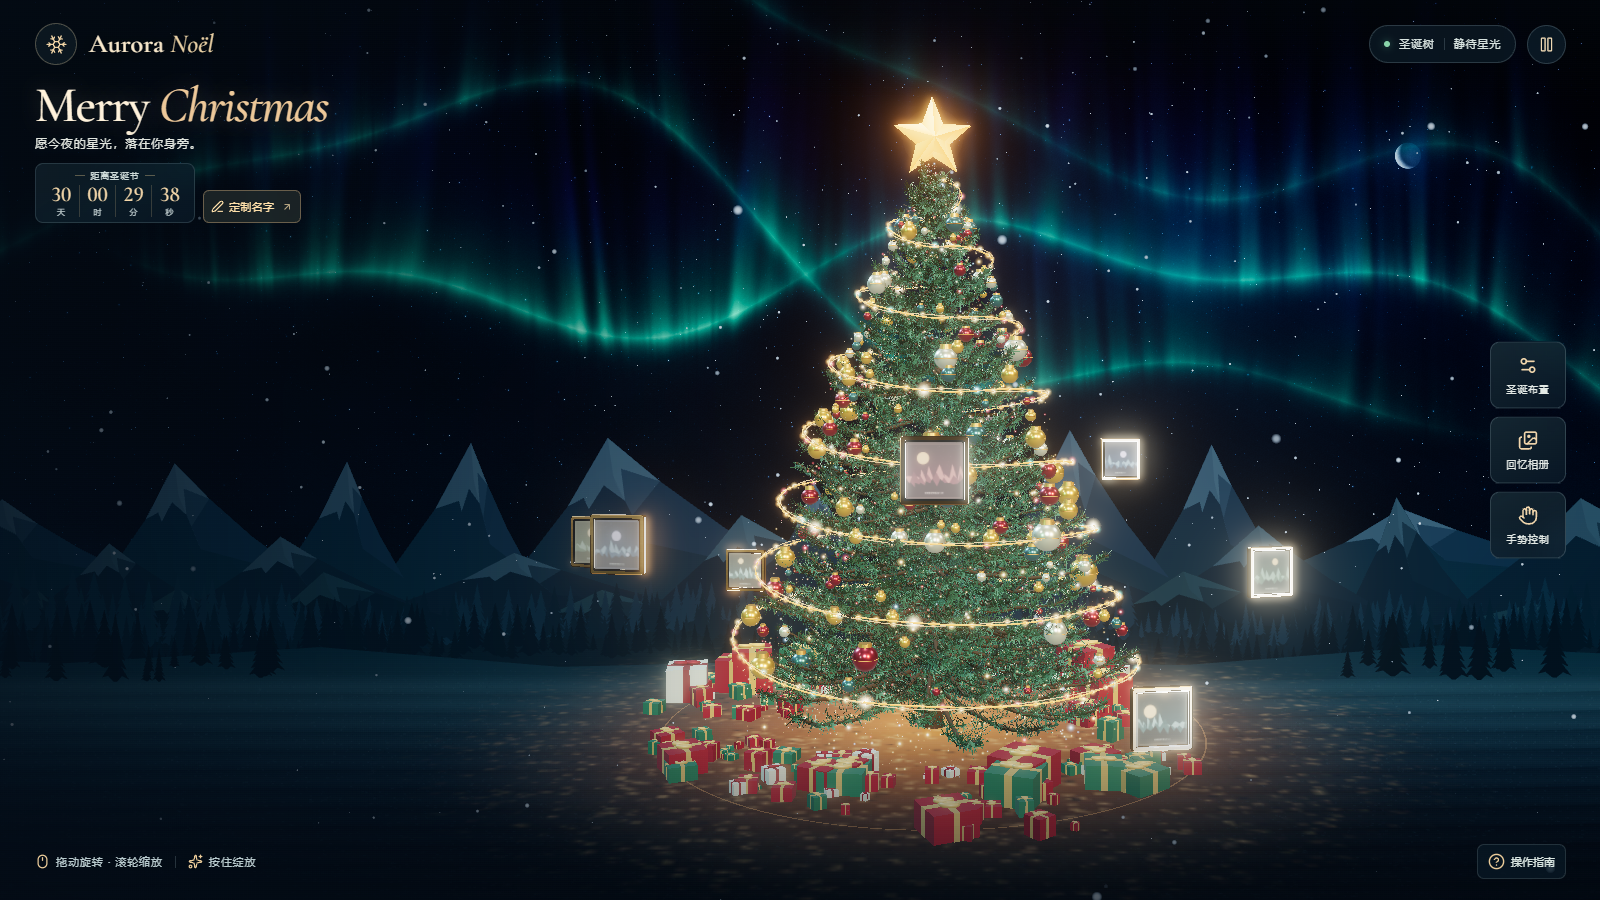
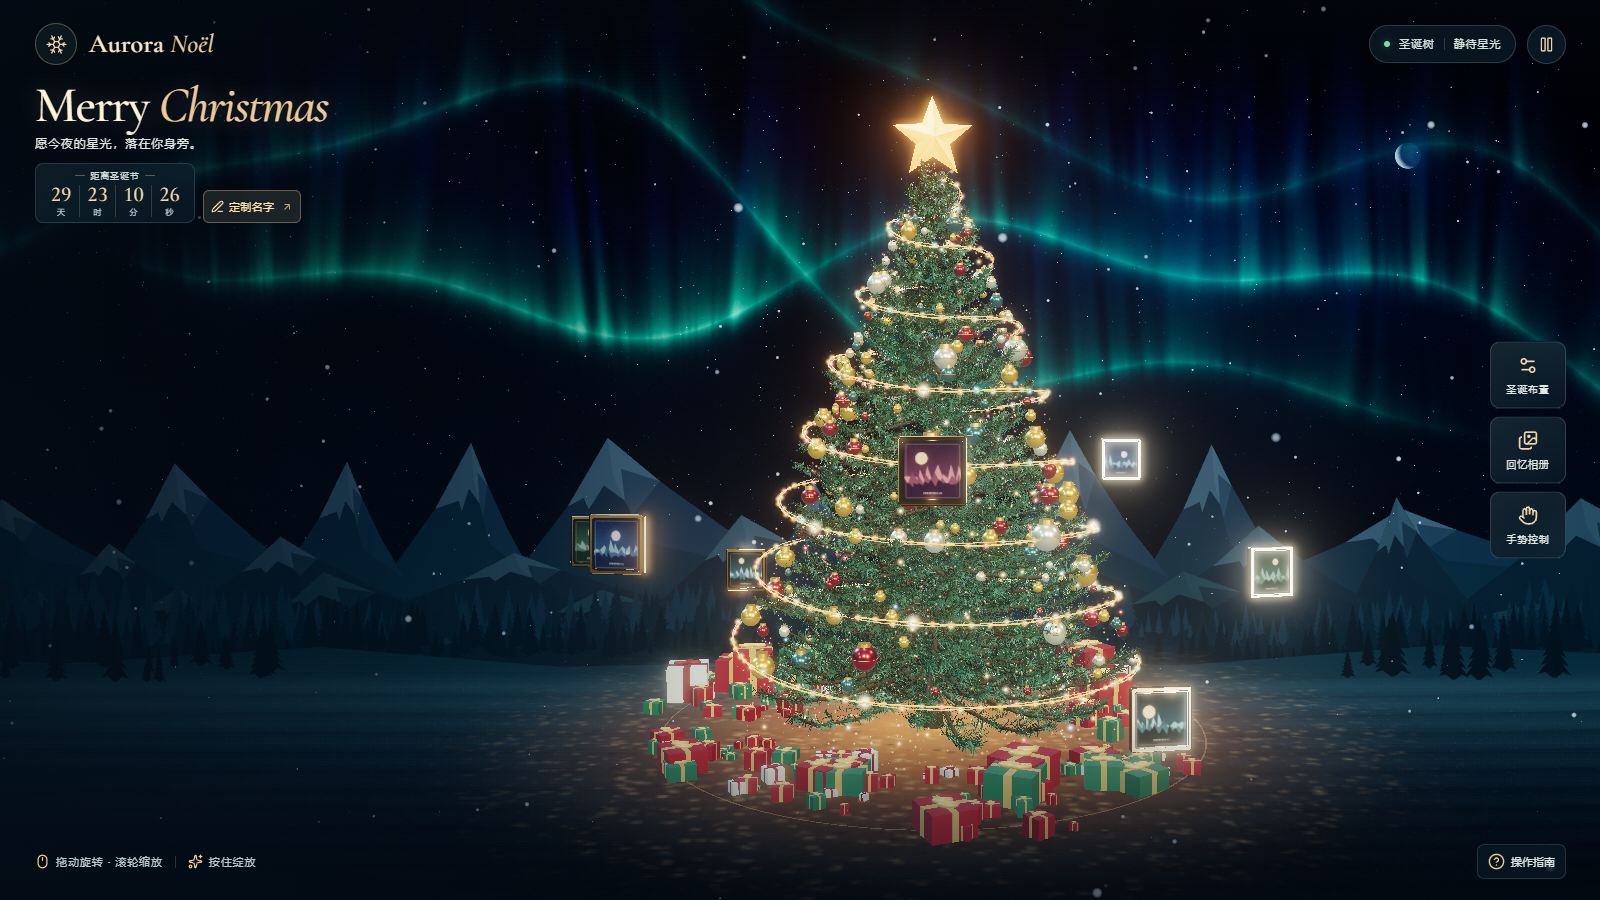
fix: 修复上传照片发灰模糊，移除玻璃罩并提升相框清晰度

diff --git a/src/gallery.js b/src/gallery.js
@@ -88,10 +88,6 @@ function metalFrame(envMap, brushed) {
   const backing = new T.MeshStandardMaterial({
     color: '#292e34', metalness: .92, roughness: .3, envMap, envMapIntensity: 1.7,
   })
-  const glass = new T.MeshPhysicalMaterial({
-    color: '#ffffff', metalness: 0, roughness: .045, envMap, envMapIntensity: 2.2,
-    transparent: true, opacity: .085, depthWrite: false, clearcoat: 1, clearcoatRoughness: .02,
-  })
   const sealPoints = []
   for(let arm = 0; arm < 6; arm++) {
     const angle = arm * turn / 6 + Math.PI / 2
@@ -108,16 +104,13 @@ function metalFrame(envMap, brushed) {
     make() {
       const pivot = new T.Group()
       const box = new T.Mesh(plate, backing)
-      const art = new T.Mesh(artPlane, new T.MeshBasicMaterial({ color: '#b5ac95', toneMapped: false }))
+      const art = new T.Mesh(artPlane, new T.MeshBasicMaterial({ color: '#b5ac95', toneMapped: false, fog: false }))
       art.position.z = .053
-      const glassMesh = new T.Mesh(artPlane, glass)
-      glassMesh.position.z = .061
-      glassMesh.renderOrder = 2
-      pivot.add(new T.Mesh(rail, gold), new T.Mesh(lip, polished), box, new T.LineSegments(seal, engraving), art, glassMesh)
+      pivot.add(new T.Mesh(rail, gold), new T.Mesh(lip, polished), box, new T.LineSegments(seal, engraving), art)
       return { pivot, box, art }
     },
     dispose() {
-      for (const resource of [rail, lip, plate, artPlane, seal, gold, polished, backing, glass, engraving, brushed, envMap])resource.dispose()
+      for (const resource of [rail, lip, plate, artPlane, seal, gold, polished, backing, engraving, brushed, envMap])resource.dispose()
     },
   }
 }
@@ -132,6 +125,7 @@ export function makeGallery(reduce, renderer) {
   const facing = new T.Quaternion(), desiredRotation = new T.Quaternion(), pitch = new T.Quaternion()
   const up = new T.Vector3(0, 1, 0)
   const envMap = frameEnvironment(renderer)
+  const maxAnisotropy = renderer.capabilities.getMaxAnisotropy()
   const frameModel = metalFrame(envMap, brushedMetal())
   const loader = new T.TextureLoader()
   const results = []
@@ -171,6 +165,7 @@ export function makeGallery(reduce, renderer) {
           return
         }
         texture.colorSpace = T.SRGBColorSpace
+        texture.anisotropy = maxAnisotropy
         const ratio = texture.image.width / texture.image.height
         if (ratio > 1) {
           texture.repeat.x = 1 / ratio
@@ -258,7 +253,7 @@ export function makeGallery(reduce, renderer) {
 
     root.getWorldQuaternion(facing).invert().multiply(camera.quaternion)
     if (selected) {
-      preview.set(.10, -.14, -6.6).applyQuaternion(camera.quaternion).add(camera.position)
+      preview.set(.10, -.14, -5.4).applyQuaternion(camera.quaternion).add(camera.position)
       root.worldToLocal(preview)
     }
 
@@ -273,7 +268,7 @@ export function makeGallery(reduce, renderer) {
       desiredRotation.copy(facing).multiply(pitch.setFromAxisAngle(up, tilt))
       card.group.position.lerp(desired, movement)
       card.group.quaternion.slerp(desiredRotation, alignment)
-      card.group.scale.setScalar(T.MathUtils.damp(card.group.scale.x, active ? 1.23 : .87, 5.6, dt))
+      card.group.scale.setScalar(T.MathUtils.damp(card.group.scale.x, active ? 1.3 : .87, 5.6, dt))
 
       if (card.flipTime < 1) {
         card.flipTime = Math.min(1, card.flipTime + dt / .76)
